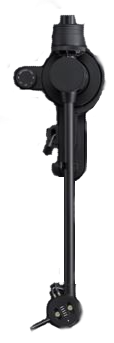
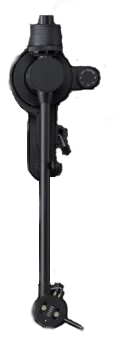
턴테이블 css 완성
턴테이블 배경 이미지 삽입 및 배치
모바일 환경 css 수정

diff --git a/css/motion.css b/css/motion.css
@@ -16,12 +16,14 @@ audio {
 }
 
 .contentWrap .album {
+  background-image: url("../image/back.png");
+  background-size: cover;
   position: fixed;
   top: 31%;
   left: 10%;
-  width: 400px;
+  width: 530px;
   display: inline-block;
-  height: 400px;
+  height: 440px;
   visibility: hidden;
   opacity: 0;
   transition: all 0.4s ease-in-out;
@@ -34,20 +36,20 @@ audio {
 
 .contentWrap .album img:first-child {
   position: absolute;
-  top: -20%;
-  transform: rotate(-90deg);
+  right: 0;
+  top: 20px;
   transform-origin: 45px 65px;
-  height: 300px;
   z-index: 2;
-  transition: 0.8s ease-in-out;
+  transition: 0.6s ease-in-out;
 }
 
 .contentWrap .album .disk {
+  border: solid 1px rgb(50, 51, 55);
   position: absolute;
-  top: 4px;
-  left: 0;
-  width: 392px;
-  height: 392px;
+  top: 30px;
+  left: 27px;
+  width: 382px;
+  height: 382px;
   border-radius: 50%;
   box-shadow: 4px 14px 40px rgba(0, 0, 0, 0.3);
   transition: left 0.6s cubic-bezier(0.175, 0.885, 0.32, 1.275);
@@ -78,12 +80,20 @@ audio {
   border-radius: 50%;
 }
 
+.mobileDisk {
+  animation: rotateAni 4s linear infinite;
+  animation-delay: 0.6s;
+}
+.mobileTurnTable {
+  transform: rotate(36deg);
+}
+
 .contentWrap .album:hover .disk {
-  animation: rotateAni 10s ease infinite;
-  animation-delay: 0.8s;
+  animation: rotateAni 4s linear infinite;
+  animation-delay: 0.6s;
 }
 .contentWrap .album:hover img:first-child {
-  transform: rotate(0deg);
+  transform: rotate(36deg);
 }
 
 .buttonWrap {
@@ -136,10 +146,18 @@ audio {
     width: 100%;
   }
   .contentWrap .album {
+    background-size: contain;
+    background-repeat: no-repeat;
     position: absolute;
     top: 20%;
-    width: 200px;
-    height: 200px;
+    width: 270px;
+    height: 230px;
+  }
+
+  .contentWrap .album img:first-child {
+    width: 20%;
+    top: 20px;
+    transform-origin: 24px 45px;
   }
 
   .contentWrap .bgm_box {
@@ -152,16 +170,11 @@ audio {
     width: 300px;
   }
 
-  .contentWrap .album.active {
-    left: 5%;
-  }
-  .contentWrap .album.active .disk {
-    left: 35%;
-  }
-
   .contentWrap .album .disk {
     width: 190px;
     height: 190px;
+    left: 20px;
+    top: 22px;
   }
 
   .contentWrap .album .disk .disk_inner {

diff --git a/js/motion_3_mobile.js b/js/motion_3_mobile.js
@@ -4,6 +4,7 @@ const body = document.body;
 const disk = document.querySelectorAll(".disk");
 const disk_inner = document.querySelectorAll(".disk_inner");
 const album = document.querySelectorAll(".album");
+const turntable = document.querySelectorAll(".album img:first-child");
 const pointBtnAll = document.querySelectorAll(".pointWrap li");
 
 let pageNum = 0;
@@ -47,6 +48,12 @@ window.onload = function () {
   if (mobileChk()) {
     body.addEventListener("touchstart", touchFunc, false);
     body.addEventListener("touchend", touchFunc, false);
+    album.forEach((album, i) => {
+      album.addEventListener("click", () => {
+        disk[i].classList.toggle("mobileDisk");
+        turntable[i].classList.toggle("mobileTurnTable");
+      });
+    });
   }
 
   let start_X = 0;
